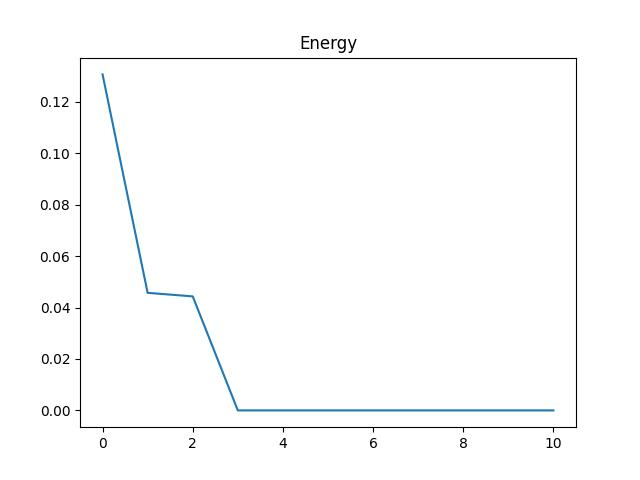
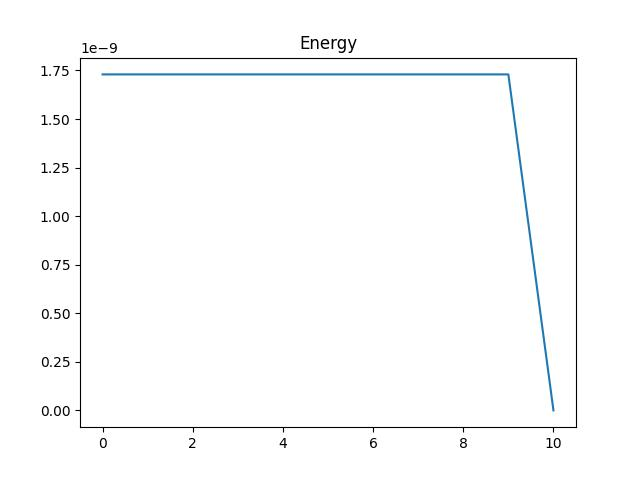
recherche de g qui marche

diff --git a/demo_control_polycopie2023.py b/demo_control_polycopie2023.py
@@ -204,7 +204,7 @@ def compute_objective_function(domain_omega, u, spacestep):
 
     for i in range(M):
         for j in range(N):
-                energy += (numpy.abs(u[i, j]) ** 2) * (spacestep ** 2)
+                energy += (numpy.real(u[i, j]) ** 2 + numpy.imag(u[i,j])**2) * (spacestep ** 2)
 
     return energy
 
@@ -227,7 +227,7 @@ def optimization_procedure(domain_omega, spacestep, omega, f, f_dir, f_neu, f_ro
    
 
     energy = numpy.zeros((numb_iter+1, 1), dtype=numpy.float64)
-    while k < numb_iter and mu > 10**(-5):
+    while k < numb_iter :#and mu > 10**(-5):
         print('---- iteration number = ', k)
         # print('1. computing solution of Helmholtz problem, i.e., u')
         u = processing.solve_helmholtz(domain_omega, spacestep, omega, f, f_dir, f_neu, f_rob, beta_pde, alpha_pde, alpha_dir, beta_neu, beta_rob, alpha_rob)
@@ -283,28 +283,8 @@ def optimization_procedure(domain_omega, spacestep, omega, f, f_dir, f_neu, f_ro
     return chi, energy, u, grad
 
 
-def compute_objective_function(domain_omega, u, spacestep):
-    """
-    This function compute the objective function:
-    J(u,domain_omega)= \int_{domain_omega}||u||^2 
 
-    Parameter:
-        domain_omega: Matrix (NxP), it defines the domain and the shape of the
-        Robin frontier;
-        u: Matrix (NxP), it is the solution of the Helmholtz problem, we are
-        computing its energy;
-        spacestep: float, it corresponds to the step used to solve the Helmholtz
-        equation.
-    """
 
-    energy = 0.0
-    M, N = numpy.shape(domain_omega)
-
-    for i in range(M):
-        for j in range(N):
-                energy += (numpy.real(u[i, j]) ** 2 + numpy.imag(u[i,j])**2) * (spacestep ** 2)
-
-    return energy
 
 
 if __name__ == '__main__':
@@ -315,7 +295,7 @@ if __name__ == '__main__':
     # -- set parameters of the geometry
     N = 50  # number of points along x-axis
     M = 2 * N  # number of points along y-axis
-    level = 2 # level of the fractal
+    level = 0 # level of the fractal
     spacestep = 1.0 / N  # mesh size
     
     # Material = [phi, gamma_p, sigma, rho_0, alpha_h, c_0]
@@ -325,7 +305,7 @@ if __name__ == '__main__':
     kx = -1.0
     ky = -1.0
     wavenumber = numpy.sqrt(kx**2 + ky**2)  # wavenumber
-    #wavenumber = 10.0
+    wavenumber =10
 
     # ----------------------------------------------------------------------
     # -- Do not modify this cell, these are the values that you will be assessed against.
@@ -344,13 +324,26 @@ if __name__ == '__main__':
     # ----------------------------------------------------------------------
     # -- define boundary conditions
     # planar wave defined on top
-    omega=1
+    c = 340
+    L = 1
+    omega = wavenumber/c 
     def g(x, omega):
+
         return numpy.exp(-((x-0.5)**2)/2)/(numpy.sqrt(2*numpy.pi))
     
+    def g2(x,omega): 
+
+         a1,b1 = 2.64,0.156
+         a2,b2 = 3.88,0.204
+         A1 = numpy.exp(-(numpy.log(omega)-a1)**2/(2*b1**2))
+         A2 = numpy.exp(-(numpy.log(omega)-a2)**2/(2*b2**2))
+
+         return numpy.sin(omega*x/c)
+    
+
     f_dir[:, :] = 0.0
     for j in range(N):
-        f_dir[0, j] = g(j/N, omega)
+        f_dir[0, j] = g2(j/N, omega)
     # spherical wave defined on top
     #f_dir[:, :] = 0.0
     #f_dir[0, int(N/2)] = 10.0
@@ -365,6 +358,7 @@ if __name__ == '__main__':
     # -- this is the function you have written during your project
     import compute_alpha
     Alpha = compute_alpha.compute_alpha(omega, material)[0]
+    print(Alpha)
     alpha_rob = Alpha * chi
 
     # -- set parameters for optimization
@@ -375,7 +369,7 @@ if __name__ == '__main__':
                 S += 1
     V_0 = 1  # initial volume of the domain
     V_obj = numpy.sum(numpy.sum(chi)) / S  # constraint on the density
-    mu = 5 # initial gradient step
+    mu = 5  # initial gradient step
     mu1 = 10**(-5)  # parameter of the volume functional
 
     # ----------------------------------------------------------------------
